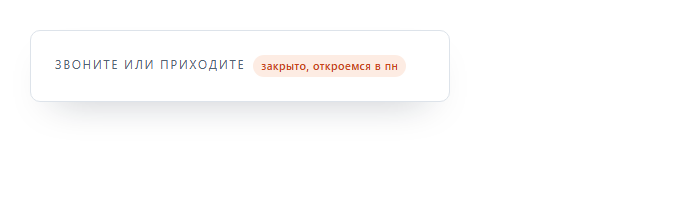
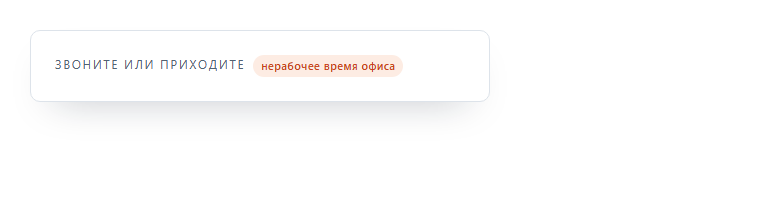
Пометка и заголовок окна: «нерабочее время офиса»; убрана неиспользуемая функция

Changed region(s): [[0.06, 0.2455, 0.6, 0.3545]]

diff --git a/assets/hours.js b/assets/hours.js
@@ -50,15 +50,6 @@
       now.hour >= OPEN_HOUR && now.hour < CLOSE_HOUR;
   }
 
-  // короткая форма для пометки в карточке: «завтра», «в пн», «сегодня»
-  function shortOpening(now) {
-    var isWorkday = WORKDAYS.indexOf(now.weekday) !== -1;
-    if (isWorkday && now.hour < OPEN_HOUR) {
-      return "сегодня";
-    }
-    var names = { Mon: "во вт", Tue: "в ср", Wed: "в чт", Thu: "в пт", Fri: "в пн", Sat: "в пн", Sun: "в пн" };
-    return names[now.weekday] || "в пн";
-  }
   function nextOpening(now) {
     var isWorkday = WORKDAYS.indexOf(now.weekday) !== -1;
 
@@ -95,7 +86,7 @@
     var title = document.createElement("h2");
     title.className = "modal__title";
     title.id = "hours-modal-title";
-    title.textContent = "Сейчас нерабочее время";
+    title.textContent = "Нерабочее время офиса";
     panel.appendChild(title);
 
     var text = document.createElement("p");
@@ -275,9 +266,9 @@
   function markClosed(now) {
     var badge = document.createElement("span");
     badge.className = "hours-badge";
-    // пишем не «закрыто», а когда откроемся — чтобы не читалось как «мы закрылись»
-    var prefix = WORKDAYS.indexOf(now.weekday) === -1 ? "выходной день" : "закрыто";
-    badge.textContent = prefix + ", откроемся " + shortOpening(now);
+    // одна формулировка и в выходной, и вечером: речь про часы работы офиса,
+    // а не про то, что компания закрылась
+    badge.textContent = "нерабочее время офиса";
 
     var label = document.querySelector(".hero-card__label");
     if (label && !label.querySelector(".hours-badge")) {

diff --git a/index.html b/index.html
@@ -29,7 +29,7 @@
   <link rel="preload" href="assets/fonts/rubik-wm-cyrillic.woff2" as="font" type="font/woff2" crossorigin>
   <link rel="preload" href="assets/fonts/inter-cyrillic.woff2" as="font" type="font/woff2" crossorigin>
   <link rel="preload" href="assets/fonts/inter-tight-cyrillic.woff2" as="font" type="font/woff2" crossorigin>
-  <link rel="stylesheet" href="assets/style.css?v=20261177">
+  <link rel="stylesheet" href="assets/style.css?v=20261178">
 
   <script type="application/ld+json">
   {
@@ -81,7 +81,7 @@
   <header class="site-header">
     <div class="container header-inner">
       <a class="brand" href="#top" aria-label="Интер-Техника-Плюс — на главную">
-        <img class="brand-logo" src="assets/logo.png?v=20261177" alt="Интер-Техника-Плюс" width="112" height="44">
+        <img class="brand-logo" src="assets/logo.png?v=20261178" alt="Интер-Техника-Плюс" width="112" height="44">
         <span class="brand-name">Интер-Техника<span class="brand-plus">+</span></span>
       </a>
 
@@ -426,8 +426,8 @@
     <a class="btn btn--ghost" href="https://yandex.ru/maps/org/1043257440/" target="_blank" rel="noopener">Написать</a>
   </div>
 
-  <script src="assets/app.js?v=20261177" defer></script>
-<script src="assets/hours.js?v=20261177" defer></script>
-  <script src="assets/map.js?v=20261177" defer></script>
+  <script src="assets/app.js?v=20261178" defer></script>
+<script src="assets/hours.js?v=20261178" defer></script>
+  <script src="assets/map.js?v=20261178" defer></script>
 </body>
 </html>

diff --git a/new.html b/new.html
@@ -21,13 +21,13 @@
   <link rel="icon" href="assets/favicon-32.png" type="image/png" sizes="32x32">
   <link rel="icon" href="assets/favicon-192.png" type="image/png" sizes="192x192">
   <link rel="apple-touch-icon" href="assets/apple-touch-icon.png" sizes="180x180">
-  <link rel="stylesheet" href="assets/style.css?v=20261177">
+  <link rel="stylesheet" href="assets/style.css?v=20261178">
 </head>
 <body>
   <header class="site-header">
     <div class="container header-inner">
       <a class="brand" href="index.html" aria-label="Интер-Техника-Плюс — на главную">
-        <img class="brand-logo" src="assets/logo.png?v=20261177" alt="Интер-Техника-Плюс" width="112" height="44">
+        <img class="brand-logo" src="assets/logo.png?v=20261178" alt="Интер-Техника-Плюс" width="112" height="44">
         <span class="brand-name">Интер-Техника<span class="brand-plus">+</span></span>
       </a>
       <button class="nav-toggle" type="button" aria-expanded="false" aria-controls="nav">
@@ -130,9 +130,9 @@
   </div>
 </footer>
 
-  <script src="assets/app.js?v=20261177" defer></script>
-<script src="assets/hours.js?v=20261177" defer></script>
-  <script src="assets/catalog.js?v=20261177" defer></script>
-<script src="assets/order.js?v=20261177" defer></script>
+  <script src="assets/app.js?v=20261178" defer></script>
+<script src="assets/hours.js?v=20261178" defer></script>
+  <script src="assets/catalog.js?v=20261178" defer></script>
+<script src="assets/order.js?v=20261178" defer></script>
 </body>
 </html>

diff --git a/used.html b/used.html
@@ -21,13 +21,13 @@
   <link rel="icon" href="assets/favicon-32.png" type="image/png" sizes="32x32">
   <link rel="icon" href="assets/favicon-192.png" type="image/png" sizes="192x192">
   <link rel="apple-touch-icon" href="assets/apple-touch-icon.png" sizes="180x180">
-  <link rel="stylesheet" href="assets/style.css?v=20261177">
+  <link rel="stylesheet" href="assets/style.css?v=20261178">
 </head>
 <body>
   <header class="site-header">
     <div class="container header-inner">
       <a class="brand" href="index.html" aria-label="Интер-Техника-Плюс — на главную">
-        <img class="brand-logo" src="assets/logo.png?v=20261177" alt="Интер-Техника-Плюс" width="112" height="44">
+        <img class="brand-logo" src="assets/logo.png?v=20261178" alt="Интер-Техника-Плюс" width="112" height="44">
         <span class="brand-name">Интер-Техника<span class="brand-plus">+</span></span>
       </a>
       <button class="nav-toggle" type="button" aria-expanded="false" aria-controls="nav">
@@ -130,9 +130,9 @@
   </div>
 </footer>
 
-  <script src="assets/app.js?v=20261177" defer></script>
-<script src="assets/hours.js?v=20261177" defer></script>
-  <script src="assets/catalog.js?v=20261177" defer></script>
-<script src="assets/order.js?v=20261177" defer></script>
+  <script src="assets/app.js?v=20261178" defer></script>
+<script src="assets/hours.js?v=20261178" defer></script>
+  <script src="assets/catalog.js?v=20261178" defer></script>
+<script src="assets/order.js?v=20261178" defer></script>
 </body>
 </html>

diff --git a/requisites.html b/requisites.html
@@ -10,13 +10,13 @@
   <link rel="icon" href="assets/favicon-32.png" type="image/png" sizes="32x32">
   <link rel="icon" href="assets/favicon-192.png" type="image/png" sizes="192x192">
   <link rel="apple-touch-icon" href="assets/apple-touch-icon.png" sizes="180x180">
-  <link rel="stylesheet" href="assets/style.css?v=20261177">
+  <link rel="stylesheet" href="assets/style.css?v=20261178">
 </head>
 <body>
   <header class="site-header">
     <div class="container header-inner">
       <a class="brand" href="index.html" aria-label="Интер-Техника-Плюс — на главную">
-        <img class="brand-logo" src="assets/logo.png?v=20261177" alt="Интер-Техника-Плюс" width="112" height="44">
+        <img class="brand-logo" src="assets/logo.png?v=20261178" alt="Интер-Техника-Плюс" width="112" height="44">
         <span class="brand-name">Интер-Техника<span class="brand-plus">+</span></span>
       </a>
       <button class="nav-toggle" type="button" aria-expanded="false" aria-controls="nav">
@@ -160,7 +160,7 @@
   </div>
 </footer>
 
-  <script src="assets/app.js?v=20261177" defer></script>
-<script src="assets/hours.js?v=20261177" defer></script>
+  <script src="assets/app.js?v=20261178" defer></script>
+<script src="assets/hours.js?v=20261178" defer></script>
 </body>
 </html>

diff --git a/404.html b/404.html
@@ -9,13 +9,13 @@
   <link rel="icon" href="assets/favicon-32.png" type="image/png" sizes="32x32">
   <link rel="icon" href="assets/favicon-192.png" type="image/png" sizes="192x192">
   <link rel="apple-touch-icon" href="assets/apple-touch-icon.png" sizes="180x180">
-  <link rel="stylesheet" href="assets/style.css?v=20261177">
+  <link rel="stylesheet" href="assets/style.css?v=20261178">
 </head>
 <body>
   <header class="site-header">
     <div class="container header-inner">
       <a class="brand" href="index.html" aria-label="Интер-Техника-Плюс — на главную">
-        <img class="brand-logo" src="assets/logo.png?v=20261177" alt="Интер-Техника-Плюс" width="112" height="44">
+        <img class="brand-logo" src="assets/logo.png?v=20261178" alt="Интер-Техника-Плюс" width="112" height="44">
         <span class="brand-name">Интер-Техника<span class="brand-plus">+</span></span>
       </a>
       <nav class="nav" aria-label="Основная навигация">
@@ -73,7 +73,7 @@
   </div>
 </footer>
 
-  <script src="assets/app.js?v=20261177" defer></script>
-<script src="assets/hours.js?v=20261177" defer></script>
+  <script src="assets/app.js?v=20261178" defer></script>
+<script src="assets/hours.js?v=20261178" defer></script>
 </body>
 </html>

diff --git a/privacy.html b/privacy.html
@@ -13,13 +13,13 @@
   <link rel="canonical" href="https://ivu.ru/privacy.html">
 <link rel="icon" href="assets/favicon-192.png" type="image/png" sizes="192x192">
   <link rel="apple-touch-icon" href="assets/apple-touch-icon.png" sizes="180x180">
-  <link rel="stylesheet" href="assets/style.css?v=20261177">
+  <link rel="stylesheet" href="assets/style.css?v=20261178">
 </head>
 <body>
   <header class="site-header">
     <div class="container header-inner">
       <a class="brand" href="index.html" aria-label="Интер-Техника-Плюс — на главную">
-        <img class="brand-logo" src="assets/logo.png?v=20261177" alt="Интер-Техника-Плюс" width="112" height="44">
+        <img class="brand-logo" src="assets/logo.png?v=20261178" alt="Интер-Техника-Плюс" width="112" height="44">
         <span class="brand-name">Интер-Техника<span class="brand-plus">+</span></span>
       </a>
       <button class="nav-toggle" type="button" aria-expanded="false" aria-controls="nav">
@@ -145,7 +145,7 @@
   </div>
 </footer>
 
-  <script src="assets/app.js?v=20261177" defer></script>
-<script src="assets/hours.js?v=20261177" defer></script>
+  <script src="assets/app.js?v=20261178" defer></script>
+<script src="assets/hours.js?v=20261178" defer></script>
 </body>
 </html>

diff --git a/tovar.php b/tovar.php
@@ -108,7 +108,7 @@ $ogImage = $photos ? 'https://ivu.ru' . $uploadUrl . $photos[0] : 'https://ivu.r
 <link rel="icon" href="/assets/favicon.ico" sizes="any">
 <link rel="icon" href="/assets/favicon-32.png" type="image/png" sizes="32x32">
 <link rel="apple-touch-icon" href="/assets/apple-touch-icon.png" sizes="180x180">
-<link rel="stylesheet" href="/assets/style.css?v=20261177">
+<link rel="stylesheet" href="/assets/style.css?v=20261178">
 <?php if (!$notFound): ?>
 <script type="application/ld+json">
 {
@@ -132,7 +132,7 @@ $ogImage = $photos ? 'https://ivu.ru' . $uploadUrl . $photos[0] : 'https://ivu.r
 <header class="site-header">
   <div class="container header-inner">
     <a class="brand" href="/index.html" aria-label="Интер-Техника-Плюс — на главную">
-      <img class="brand-logo" src="/assets/logo.png?v=20261177" alt="Интер-Техника-Плюс" width="112" height="44">
+      <img class="brand-logo" src="/assets/logo.png?v=20261178" alt="Интер-Техника-Плюс" width="112" height="44">
       <span class="brand-name">Интер-Техника<span class="brand-plus">+</span></span>
     </a>
     <button class="nav-toggle" type="button" aria-expanded="false" aria-controls="nav">
@@ -354,9 +354,9 @@ $ogImage = $photos ? 'https://ivu.ru' . $uploadUrl . $photos[0] : 'https://ivu.r
     </div>
   </div>
 </footer>
-<script src="/assets/app.js?v=20261177" defer></script>
-<script src="/assets/hours.js?v=20261177" defer></script>
-<script src="/assets/order.js?v=20261177" defer></script>
+<script src="/assets/app.js?v=20261178" defer></script>
+<script src="/assets/hours.js?v=20261178" defer></script>
+<script src="/assets/order.js?v=20261178" defer></script>
 <script>
 document.addEventListener("DOMContentLoaded", function () {
   var button = document.getElementById("order-button");

diff --git a/blog.php b/blog.php
@@ -185,7 +185,7 @@ $ogImage = $post !== null && (string) $post['cover'] !== ''
 <link rel="icon" href="/assets/favicon.ico" sizes="any">
 <link rel="icon" href="/assets/favicon-32.png" type="image/png" sizes="32x32">
 <link rel="apple-touch-icon" href="/assets/apple-touch-icon.png" sizes="180x180">
-<link rel="stylesheet" href="/assets/style.css?v=20261177">
+<link rel="stylesheet" href="/assets/style.css?v=20261178">
 <?php if ($post !== null): ?>
 <script type="application/ld+json">
 {
@@ -217,7 +217,7 @@ $ogImage = $post !== null && (string) $post['cover'] !== ''
 <header class="site-header">
   <div class="container header-inner">
     <a class="brand" href="/index.html" aria-label="Интер-Техника-Плюс — на главную">
-      <img class="brand-logo" src="/assets/logo.png?v=20261177" alt="Интер-Техника-Плюс" width="112" height="44">
+      <img class="brand-logo" src="/assets/logo.png?v=20261178" alt="Интер-Техника-Плюс" width="112" height="44">
       <span class="brand-name">Интер-Техника<span class="brand-plus">+</span></span>
     </a>
     <button class="nav-toggle" type="button" aria-expanded="false" aria-controls="nav">
@@ -410,7 +410,7 @@ $ogImage = $post !== null && (string) $post['cover'] !== ''
     </div>
   </div>
 </footer>
-<script src="/assets/app.js?v=20261177" defer></script>
-<script src="/assets/hours.js?v=20261177" defer></script>
+<script src="/assets/app.js?v=20261178" defer></script>
+<script src="/assets/hours.js?v=20261178" defer></script>
 </body>
 </html>
